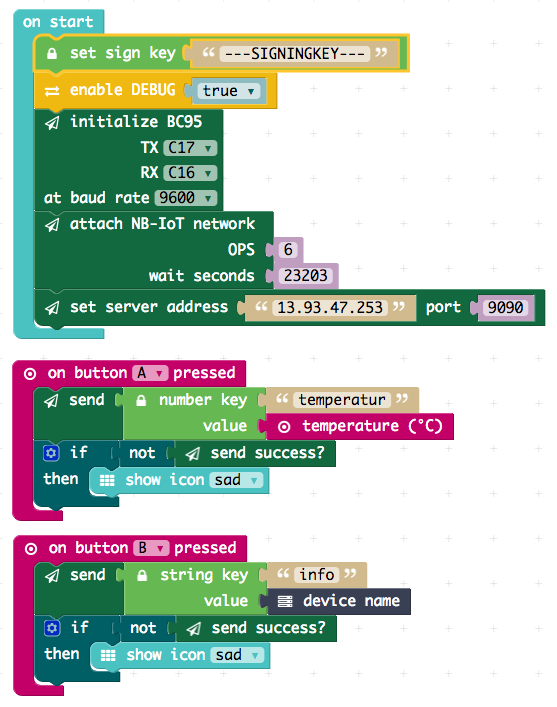
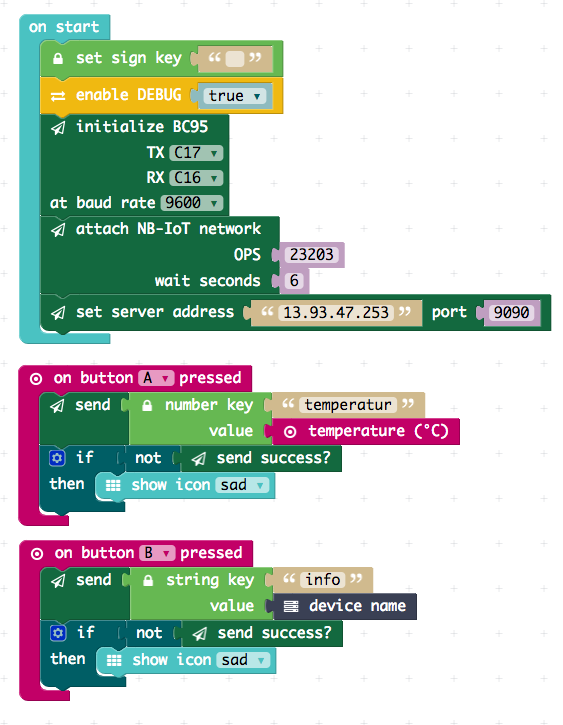
fix code

Changed region(s): [[0.0, 0.0, 0.9767, 0.9958]]

diff --git a/de-pxt-development.md b/de-pxt-development.md
@@ -70,7 +70,8 @@ bc95.init(
     BaudRate.BaudRate9600
 )
 bc95.attach(
-    6, 23203 // IN DEUTSCHLAND IST DAS 26201
+    23203, // IN DEUTSCHLAND IST DAS 26201
+    6
 )
 bc95.setServer("13.93.47.253", 9090)
 ```

diff --git a/en-pxt-development.md b/en-pxt-development.md
@@ -70,7 +70,8 @@ bc95.init(
     BaudRate.BaudRate9600
 )
 bc95.attach(
-    6, 23203 // IF IN GERMANY USE 26201
+    23203, // IF IN GERMANY USE 26201
+    6
 )
 bc95.setServer("13.93.47.253", 9090)
 ```
